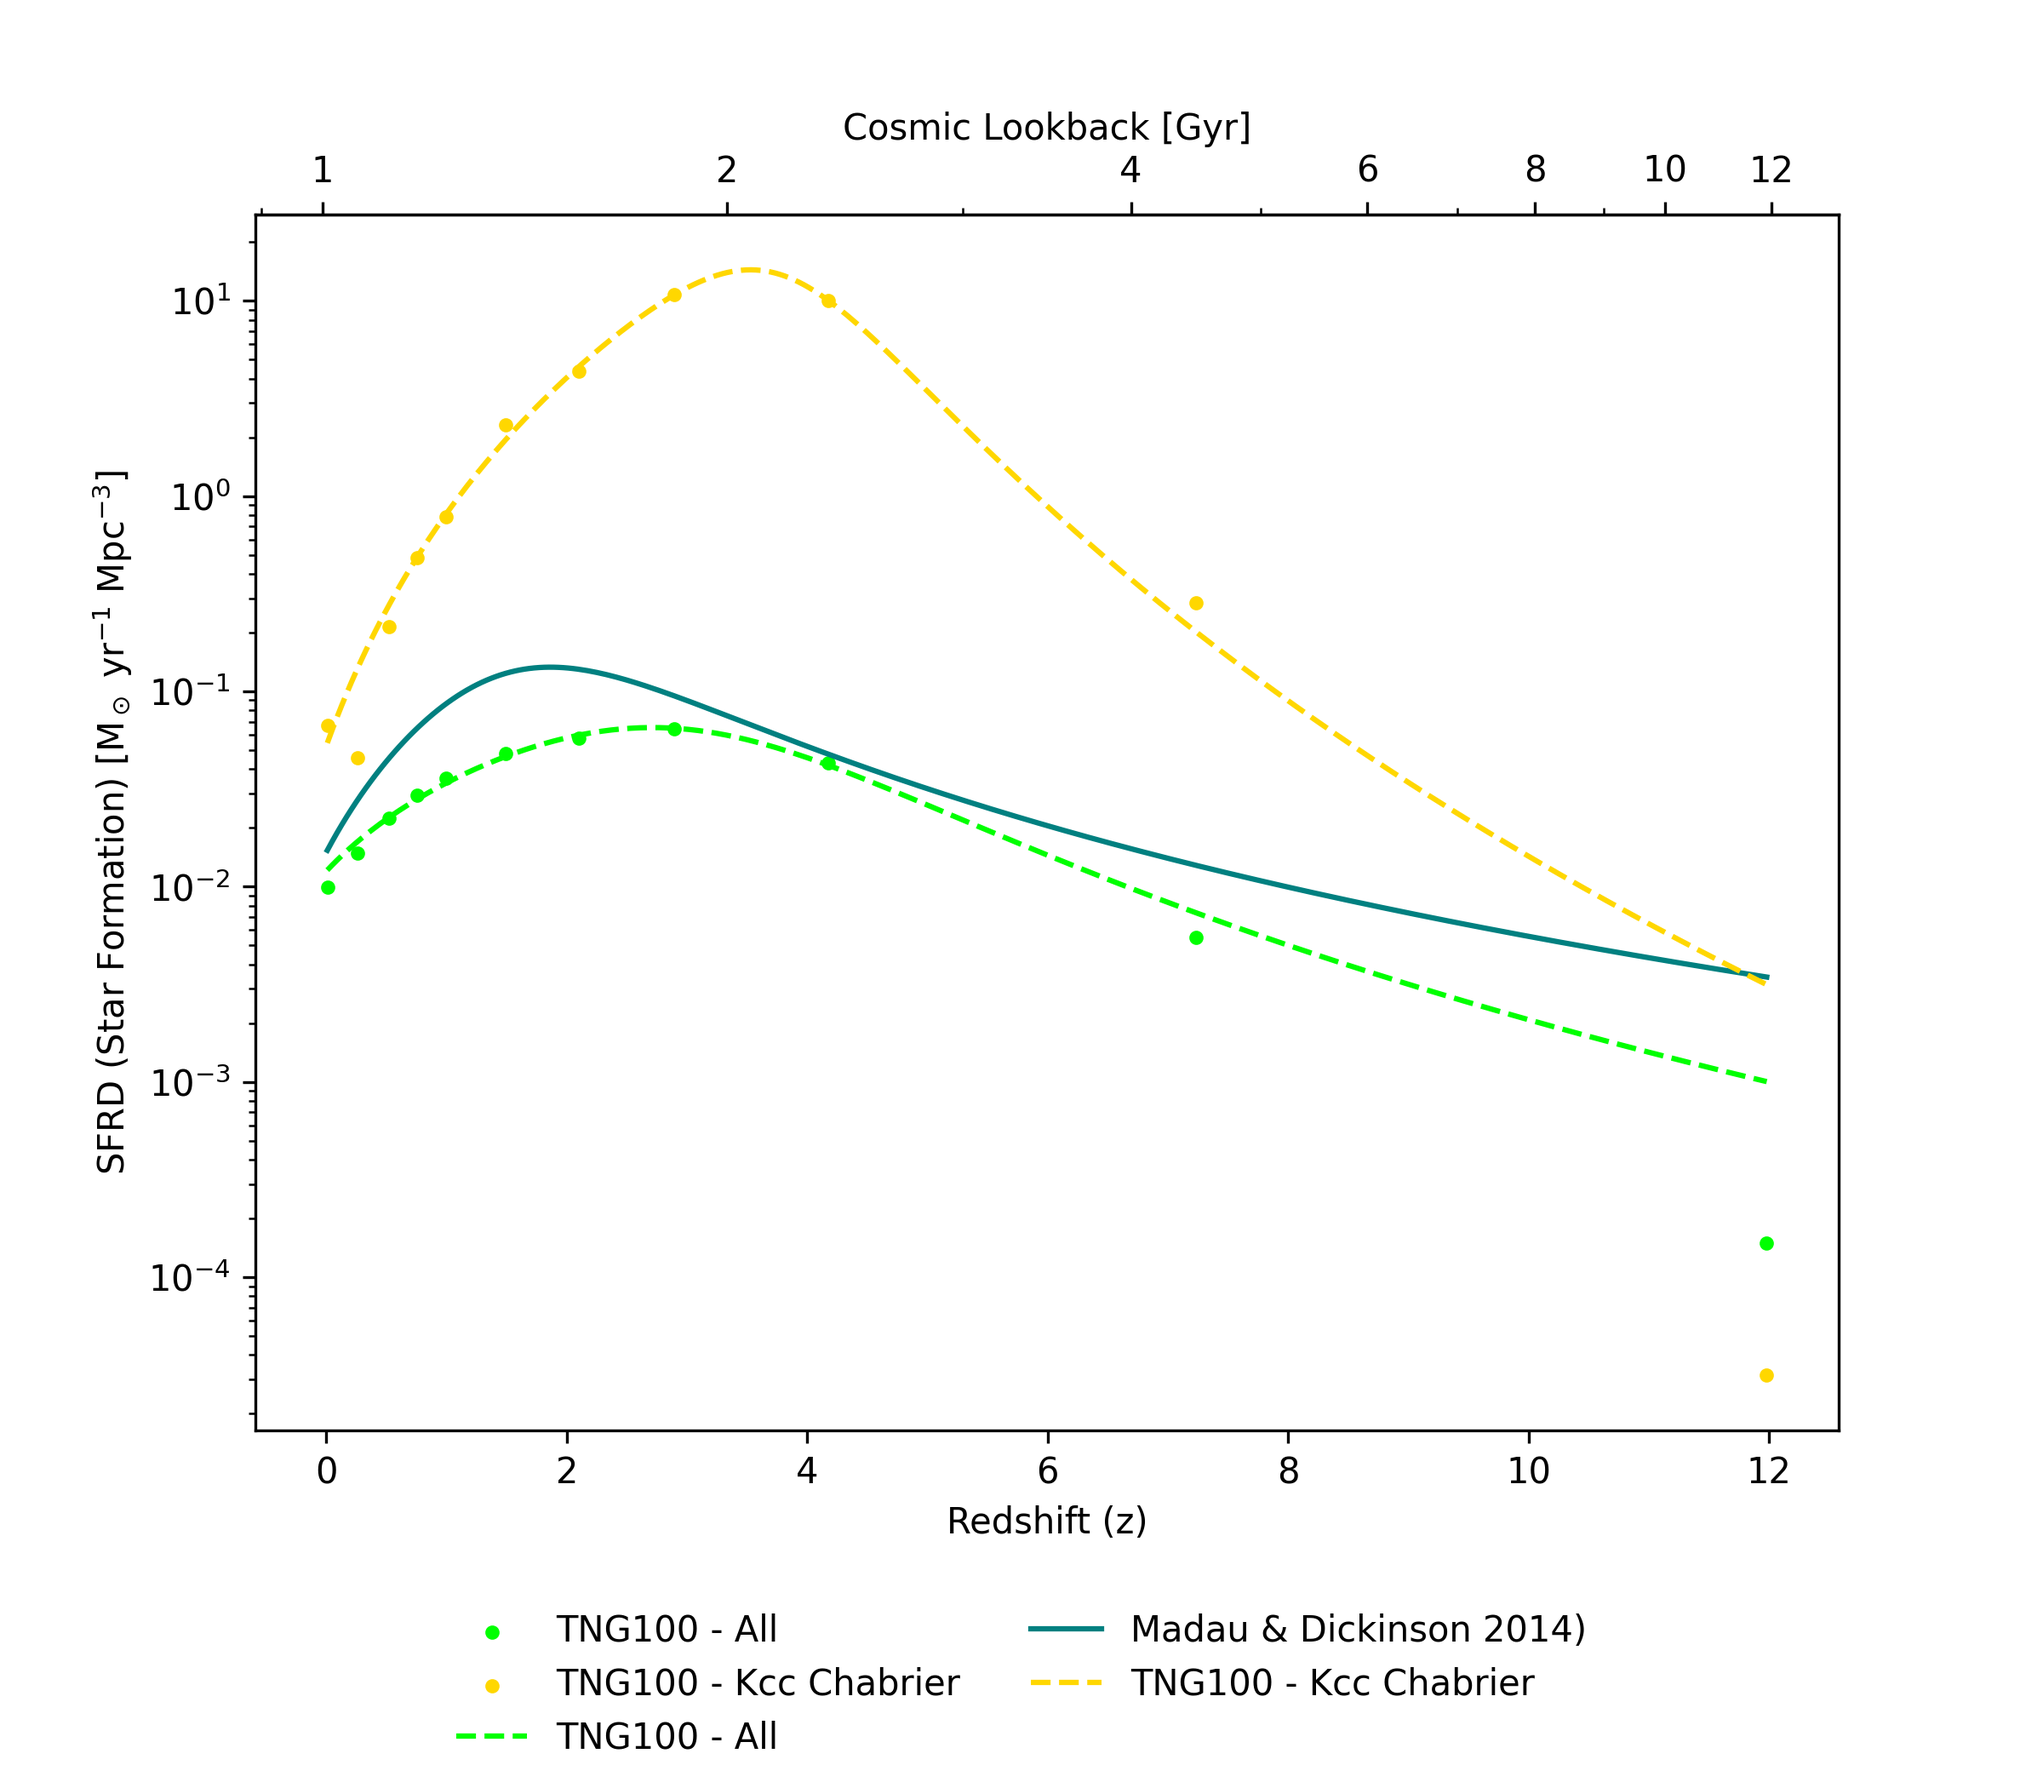
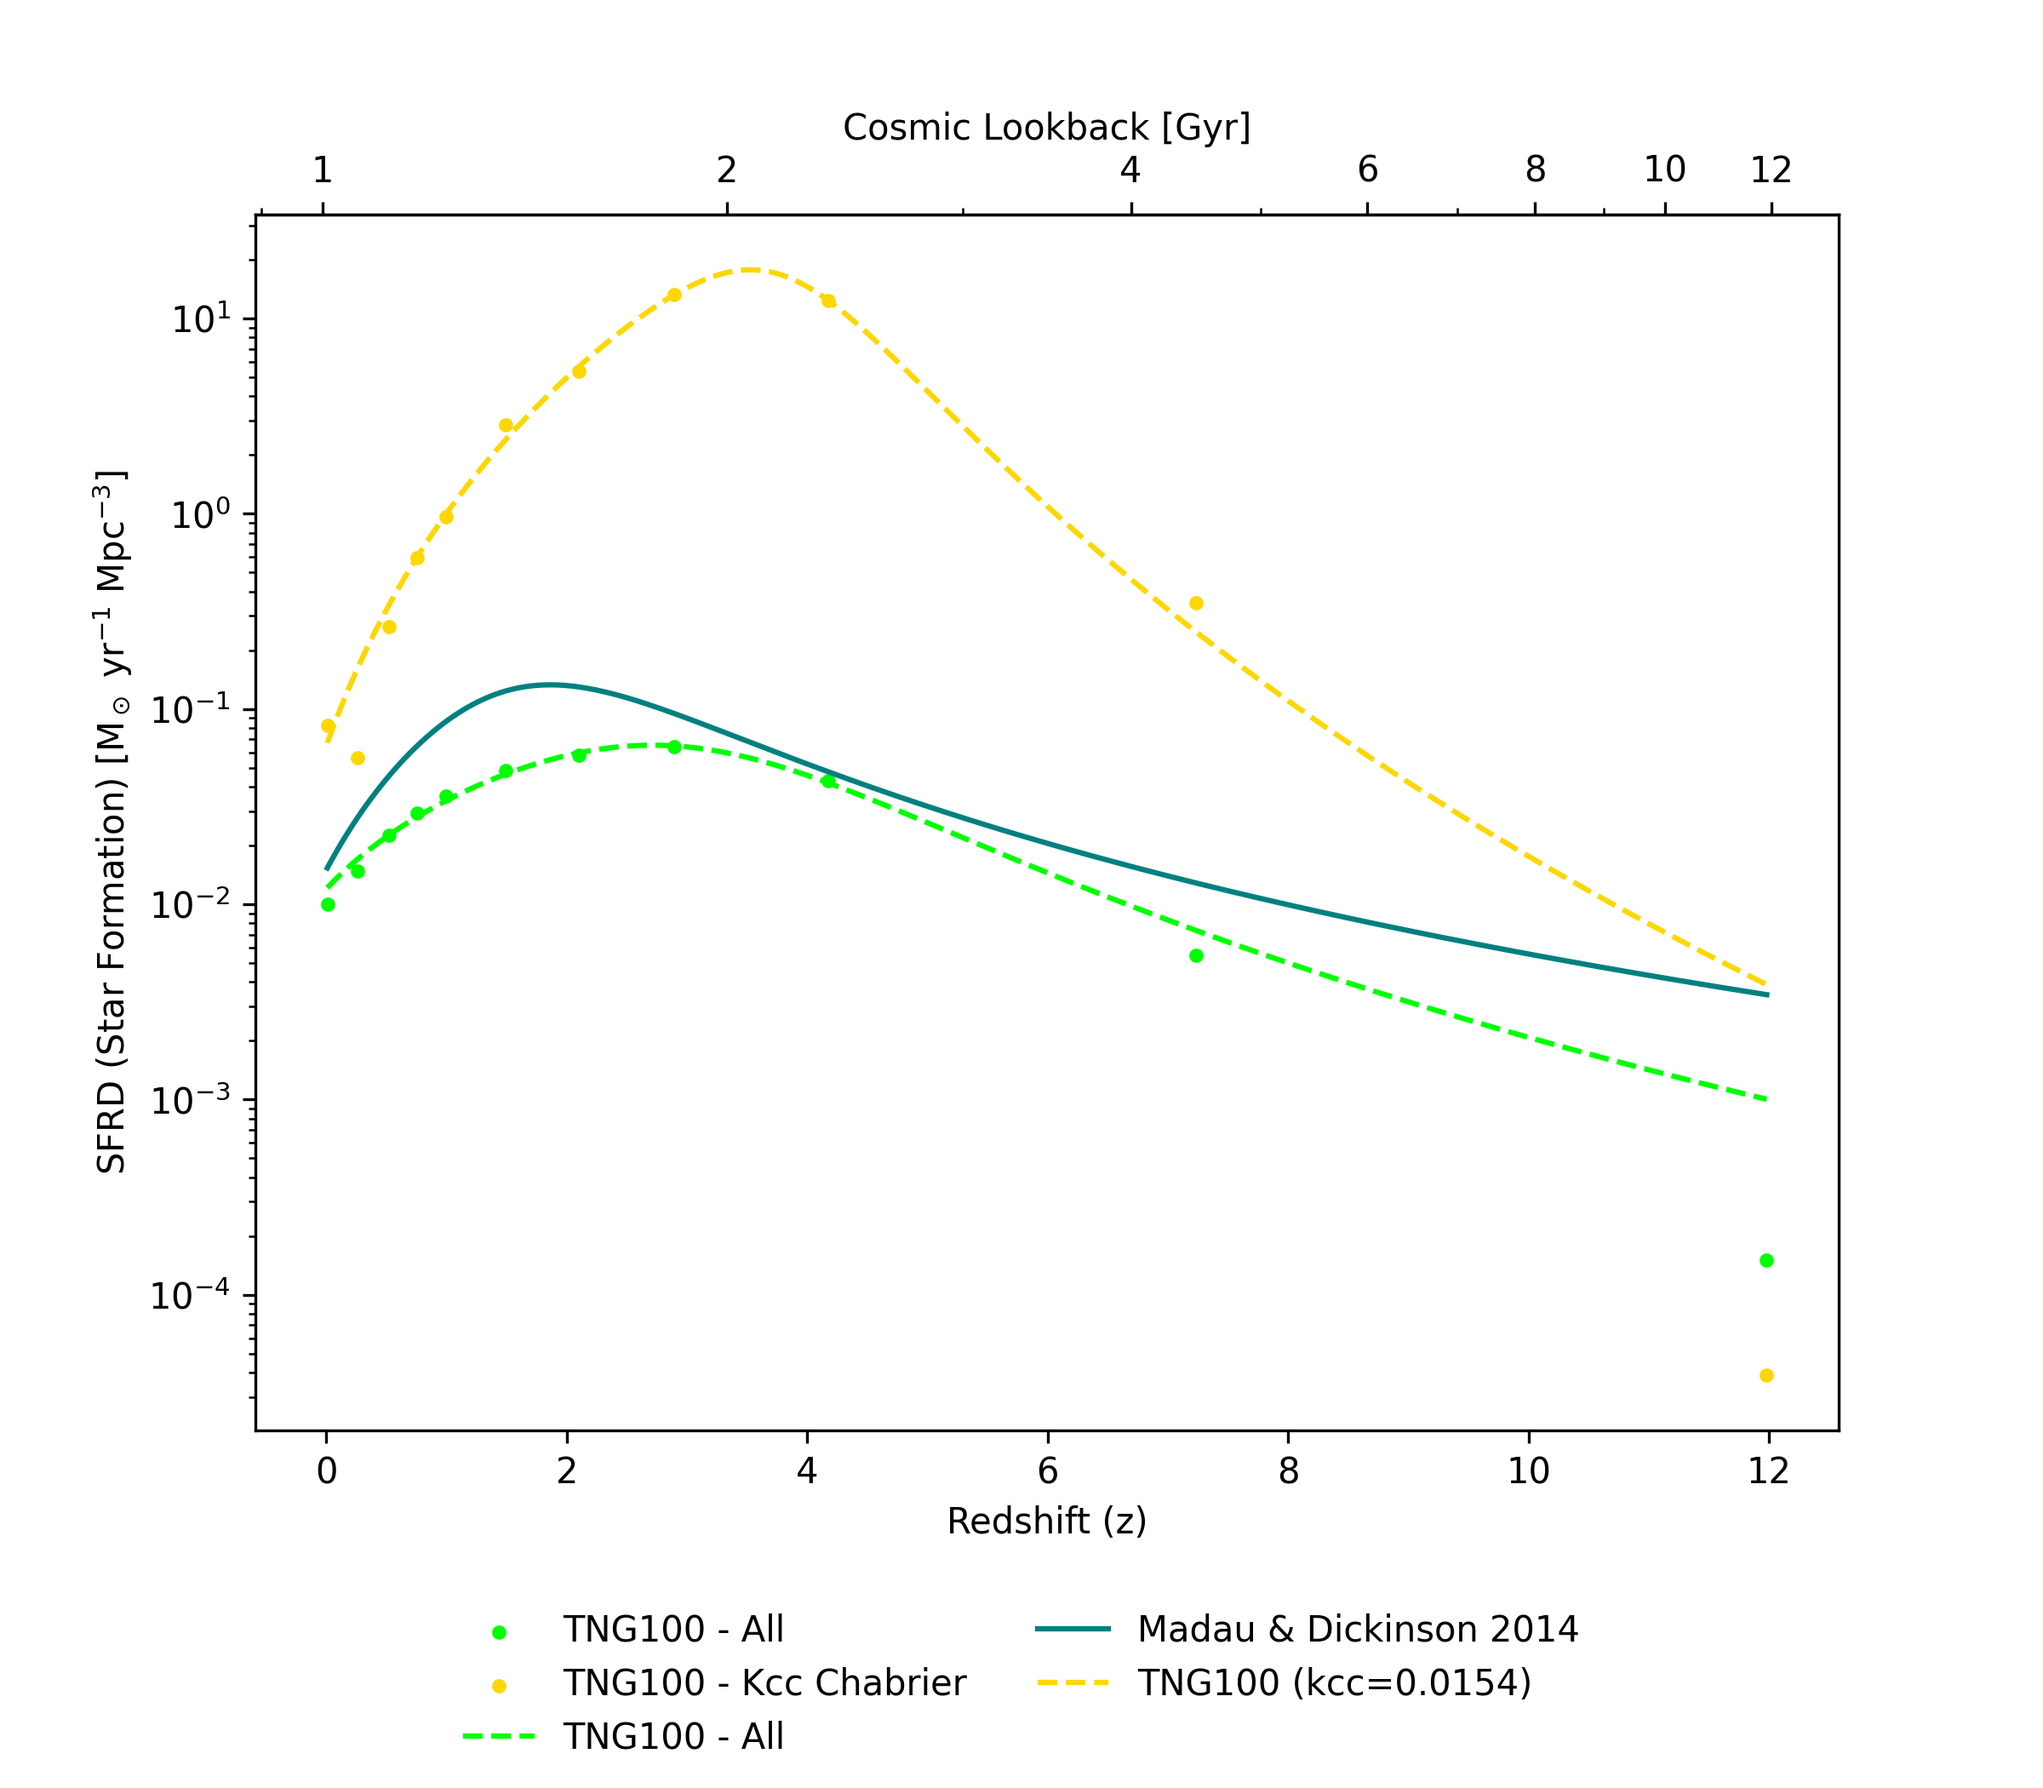
imf update

diff --git a/tng.py b/tng.py
@@ -31,6 +31,11 @@ from matplotlib.colors import Normalize
 from scipy.interpolate import interpn
 from scipy.ndimage import gaussian_filter
 
+import warnings
+
+# Ignore only this type of user warning
+warnings.filterwarnings("ignore", message=".*non-positive xlim.*")
+
 #region setup
 tqdm.set_lock(RLock())
 
@@ -43,6 +48,8 @@ allSupernovaArray, allIonizingArray, combinedSupernovaIon = bpass.getAllFormatte
 bpassAnalysis = BPASSAnalysis(allSupernovaArray)
 normIMF = IMF(1)
 imf = IMF(normIMF.chabrier(0.9)/normIMF.salpeter(0.9))
+
+print('here', imf.k1, imf.k2, imf.k3)
 
 rates_folder = f"/Users/dan/Code/FYP/Data/TNG/Rates"
 
@@ -405,7 +412,7 @@ def halo_level(snaps):
     xbins = np.logspace(np.log10(x_pos.min()), np.log10(x_pos.max()), 150)
     ybins = np.logspace(np.log10(y_pos.min()), np.log10(y_pos.max()), 150)
     counts, xedges, yedges, im = ax_hist.hist2d(x_pos, y_pos, bins=[xbins, ybins], cmap='viridis', norm=LogNorm())
-    cbar = plt.colorbar(im, ax=ax_hist)
+    cbar = fig_hist.colorbar(im, ax=ax_hist)
     cbar.set_label("Point Density Across All Redshifts")
 
     # Find which bin each point falls into
@@ -450,20 +457,23 @@ def halo_level(snaps):
 
     return True
 
-def supernova_efficiency(_imf):
+def supernova_efficiency(_imf, sn_type=2):
     # Madau & Dickinson 2014
     # k_CC = integral(phi(m), m_min, m_max) / integral(m * phi(m), m_l, m_u)
-    # up to 20 solar masses for type 2 
-    # 25 to 80 solar mass for type 1b/c
-    # bpass m_max is 100
-    # boass m_min is 1
-    numerator, _ = integrate.quad(_imf, 8, 100)
+    # bpass - max = 100, min = 1
+
     denominator, _ = integrate.quad(lambda m: m * _imf(m), 1, 100)
+    if sn_type == 2:
+        # up to 25 solar masses for type 2 
+        numerator, _ = integrate.quad(_imf, 8, 25)
+    elif sn_type == 1:
+        # 25 to 100 solar mass for type 1b/c
+        numerator, _ = integrate.quad(_imf, 25, 100)
 
     return numerator/denominator
 
 # region Plot Cosmic Level
-def cosmic_level(snaps):
+def cosmic_level(snaps, kcc_type):
     redshifts, snrd, sfrd_1000, snrd_alt = calculate_densities(snaps)
     sfrd_all, _ = calculated_sfrd()
 
@@ -507,10 +517,15 @@ def cosmic_level(snaps):
     # kcc given in Mo-1 
     csnrh = csfrh * 0.0068
 
-    kcc_salpeter = supernova_efficiency(imf.salpeter)
-    kcc_kroupa = supernova_efficiency(imf.kroupa)
-    kcc_chabrier = supernova_efficiency(imf.chabrier)
-    kcc_chabrier_sys = supernova_efficiency(imf.chabrierSystem)
+    kcc_salpeter = supernova_efficiency(imf.salpeter, kcc_type)
+    kcc_kroupa = supernova_efficiency(imf.kroupa, kcc_type)
+    kcc_chabrier = supernova_efficiency(imf.chabrier, kcc_type)
+    kcc_chabrier_sys = supernova_efficiency(imf.chabrierSystem, kcc_type)
+
+    print("kcc: ", kcc_type)
+    print("  salpeter: ", kcc_salpeter)
+    print("  chabrier: ", kcc_chabrier)
+
 
     csnrh_salpeter = csfrh * kcc_salpeter
     csnrh_kroupa = csfrh * kcc_kroupa
@@ -541,7 +556,7 @@ def cosmic_level(snaps):
     #ls_csnrh5, = ax_csnrh2.plot(redshift_linespace, csnrh, linestyle=':', color='Navy', label="MD14 - Salpeter")
     #ls_csnrh6, = ax_csnrh2.plot(redshift_linespace, csnrh_salpeter, linestyle=':', color='lime', label="SNRD (MD14 - Salpeter)")
     #ls_csnrh7, = ax_csnrh2.plot(redshift_linespace, csnrh_kroupa, linestyle=':', color='red', label="SNRD (MD14 - Kroupa)")
-    ls_csnrh9, = ax_csnrh2.plot(redshift_linespace, csnrh_chabrier, linestyle='-', color='blue', label="MD14 - Chabrier")
+    ls_csnrh9, = ax_csnrh2.plot(redshift_linespace, csnrh_chabrier, linestyle='-', color='blue', label=f"MD14 (kcc={kcc_chabrier:.3})")
     #ls_csnrh9, = ax_csnrh2.plot(redshift_linespace, csnrh_chabrier_sys, linestyle=':', color='black', label="MD14 - Chabrier System")
 
     # CSFRH plot
@@ -553,9 +568,9 @@ def cosmic_level(snaps):
     # lines
     #ls_csfrh1, = ax_csfrd.plot(redshift_linespace, md14_snrd_1000, linestyle='--', color='Green', label="TNG100 - Top 1000")
     ls_csfrh2, = ax_csfrd.plot(redshift_linespace, md14_snrd_all, linestyle='--', color='lime', label="TNG100 - All")
-    ls_csfrh3, = ax_csfrd.plot(redshift_linespace, csfrh, linestyle='-', color='teal', label="Madau & Dickinson 2014)")
+    ls_csfrh3, = ax_csfrd.plot(redshift_linespace, csfrh, linestyle='-', color='teal', label="Madau & Dickinson 2014")
     #ls_csfrh2, = ax_csfrd.plot(redshift_linespace, csfrh_kcc_md14, linestyle='--', color='red', label="TNG100 - Kcc MD14)")
-    ls_csfrh3, = ax_csfrd.plot(redshift_linespace, csfrh_kcc_chabrier, linestyle='--', color='gold', label="TNG100 - Kcc Chabrier")
+    ls_csfrh3, = ax_csfrd.plot(redshift_linespace, csfrh_kcc_chabrier, linestyle='--', color='gold', label=f"TNG100 (kcc={kcc_chabrier:.3})")
     #ls_csfrh2, = ax_csfrd.plot(redshift_linespace, csfrh_kcc_md14_noscale, linestyle='--', color='red', label="TNG100 - Kcc MD14 no scale)")
     #ls_csfrh3, = ax_csfrd.plot(redshift_linespace, csfrh_kcc_chabrier_noscale, linestyle='--', color='gold', label="TNG100 - Kcc Chabrier no scale)")
 
@@ -587,8 +602,15 @@ fig_types2, ax_types2, _ = plt_cosmo(rev_redshifts, r'SNRD (Supernova) [$\mathrm
 for sn_type in all_sn_types:
     rates_folder = f"/Users/dan/Code/FYP/Data/TNG/Rates" + f"/{sn_type}"
 
+    if sn_type in ["IIP", "II-Other"]:
+        kcc_type = 2
+    elif sn_type in ["Ib", "Ic"]:
+        kcc_type = 1
+    else:
+        kcc_type = None
+
     halo_level(snapshots)
-    snrd, snrd_alt = cosmic_level(snapshots)
+    snrd, snrd_alt = cosmic_level(snapshots, kcc_type)
 
     plot_names = ['1', '2', 'halo_rates', 'halo_rate_density', 'halo_hist', 'halo_hist_reduced', 'halo_average', 'cosmic_snr', 'cosmic_sfr']
     for idx, fig_num in enumerate(plt.get_fignums()):
@@ -603,4 +625,4 @@ for sn_type in all_sn_types:
     plt_labels(fig_types2, ax_types2, 2)
 
 
-plt.show()
+#plt.show()

diff --git a/main.py b/main.py
@@ -21,6 +21,9 @@ from Helpers.FormatHelper import SNeRatio, ImfAndSNe
 # initialise class instances
 myStarMass = StarMass(10000)
 normIMF = IMF(1)
+print('chabrier', normIMF.chabrier(1.1))
+print('salpeter', normIMF.salpeter(0.9))
+print('here', normIMF.chabrier(0.9)/normIMF.salpeter(0.9))
 myIMF = IMF(normIMF.chabrier(0.9)/normIMF.salpeter(0.9))
 myStats = StatsHelper(10)
 myAnalysis = Analysis(8, 25, 80, 0.7)
@@ -57,7 +60,8 @@ massList = myStarMass.generateListSolarMasses()
 
 for idx, func in enumerate(functions):
     for mass in massList:
-        imfDict[keys[idx]].append(norms[keys[idx]] * func(mass))
+        #imfDict[keys[idx]].append(norms[keys[idx]] * func(mass))
+        imfDict[keys[idx]].append(func(mass))
 
 """
 # Old code for getting plot data 
@@ -127,6 +131,7 @@ for idx, imf in enumerate(functions):
     mtlDataframe[keys[idx]].append(ImfAndSNe(keys[idx], SNeRatio(zData, ratioData)))
 
 # generate plots of metallicity against supernova ratio
+"""
 for key, snDataset in mtlDataframe.items():
     for dataset in snDataset:
         # sort data by z so plot line connects correctly
@@ -144,6 +149,7 @@ for key, snDataset in mtlDataframe.items():
         plt.savefig(full_path)
         plt.close()  
     #plt.show()
+"""
 
 
 
@@ -182,6 +188,7 @@ plt.show()
 """
 
 # region Massive Stars
+"""
 df = pd.DataFrame(imfDict[keys[3]])
 df['mass'] = massList
 
@@ -219,7 +226,7 @@ for file_name in my_glob:
 
     # wont all regions have some massive stars ]
     # no different to what was done previously?????
-
+"""
 
 # region Plot
 for key, values in imfDict.items():
@@ -236,9 +243,10 @@ for key, values in imfDict.items():
 plt.xlabel("Log (Mass [M☉])")
 plt.ylabel("Log (ξ(m)Δm)")
 plt.title(f"Initial Mass Functions (IMF), normalised to {myStarMass.massRegion:.1e} solar masses")
+#plt.title(f"Initial Mass Functions (IMF)")
 plt.xscale('log')
 plt.yscale('log')
 plt.ylim(10**-2,10**9)
 plt.legend()
-#plt.show()
+plt.show()
 
